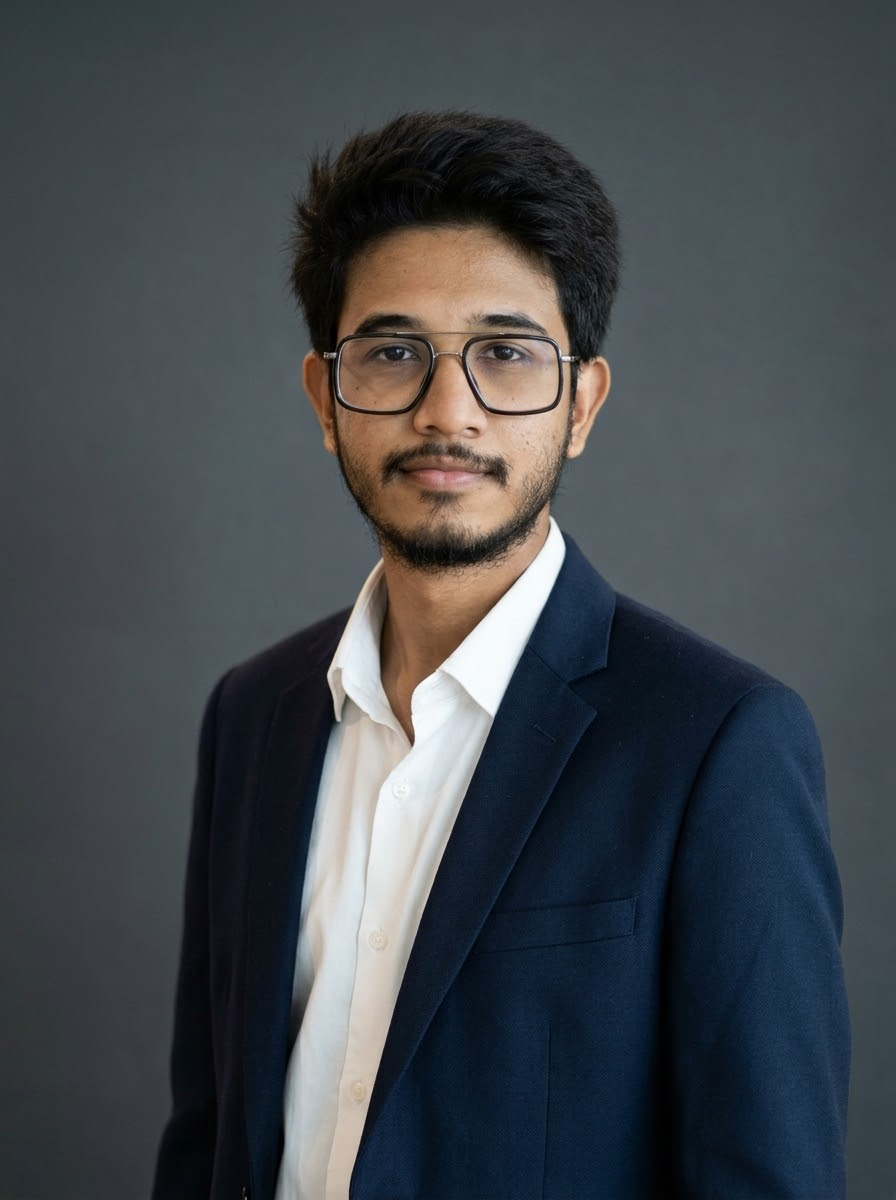
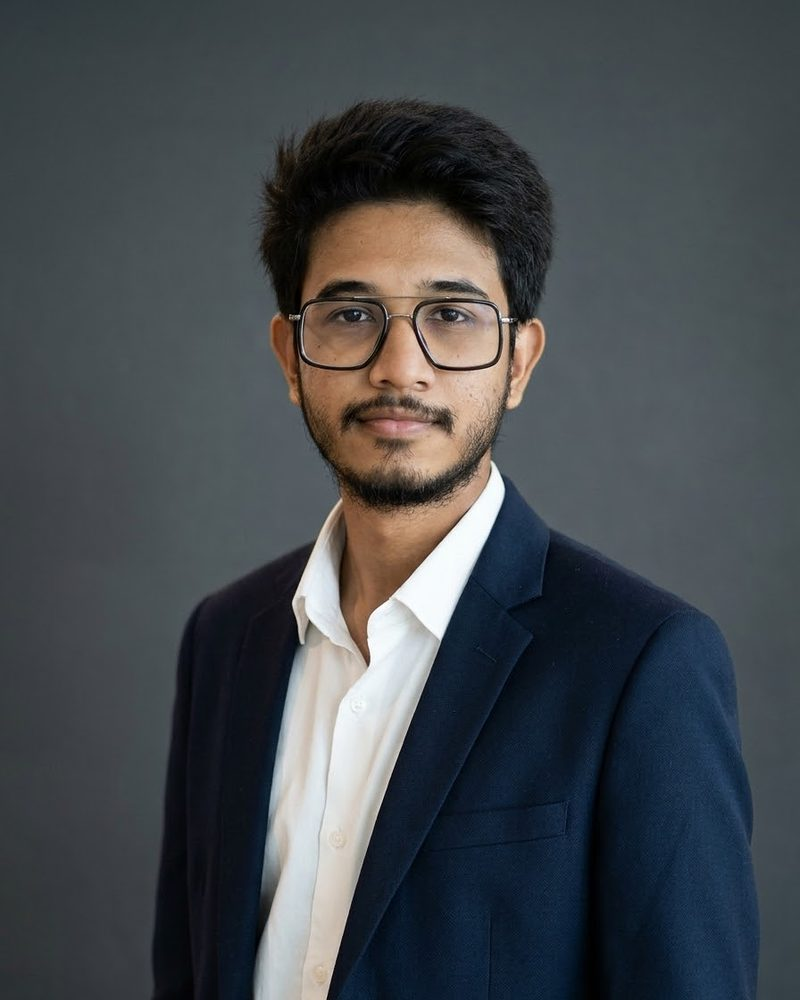
update

diff --git a/index.html b/index.html
@@ -107,7 +107,7 @@
                         </div>
                     </div>
                     <div class="hero-photo">
-                        <img src="Shams.jpg" alt="Portrait of Shams Kabir in a navy blazer and white shirt" width="800" height="1000" decoding="async" fetchpriority="high">
+                        <img src="Shams.jpg" srcset="Shams-400.jpg 400w, Shams.jpg 800w" sizes="(max-width: 859px) 160px, 30vw" alt="Portrait of Shams Kabir in a navy blazer and white shirt" width="800" height="1000" decoding="async" fetchpriority="high">
                     </div>
                 </div>
             </div>
@@ -131,7 +131,7 @@
                 <h2 class="sec-title">About me</h2>
                 <div class="about-top">
                     <figure class="trophy">
-                        <img src="achievement.jpg" alt="Gold trophy engraved with 4th rank from the DIU CodeTrap Programming Contest, Spring 2025" width="800" height="1091" loading="lazy" decoding="async">
+                        <img src="achievement.jpg" srcset="achievement-480.jpg 480w, achievement.jpg 960w" sizes="(max-width: 859px) 160px, 224px" alt="Gold trophy engraved with 4th rank from the DIU CodeTrap Programming Contest, Spring 2025" width="960" height="1310" loading="lazy" decoding="async">
                         <figcaption>
                             <strong>Proudest moment</strong>
                             4th place, DIU CodeTrap Spring 2025.

diff --git a/style.css b/style.css
@@ -242,12 +242,12 @@ nav {
     display: block;
     width: 100%;
     height: auto;
-    aspect-ratio: 800 / 1091;
+    aspect-ratio: 960 / 1310;
     object-fit: cover;
     background: var(--bar);
     border: var(--rule) solid var(--black);
 }
-.trophy figcaption { margin-top: 0.6rem; padding-top: 0.6rem; border-top: var(--rule) solid var(--black); font-size: 0.875rem; line-height: 1.35; }
+.trophy figcaption { margin-top: 0.6rem; font-size: 0.875rem; line-height: 1.35; }
 .trophy figcaption strong { display: block; font-size: 0.9375rem; font-weight: 700; }
 
 .about-facts { display: grid; gap: 0 var(--col-gap); }
@@ -265,7 +265,7 @@ nav {
 @media (max-width: 859px) {
     .about-top { display: flow-root; }
     .trophy { float: right; width: clamp(7rem, 30vw, 10rem); margin: 0.4rem 0 0.9rem 1.1rem; }
-    .trophy figcaption { font-size: 0.6875rem; line-height: 1.25; margin-top: 0.4rem; padding-top: 0.4rem; }
+    .trophy figcaption { font-size: 0.6875rem; line-height: 1.25; margin-top: 0.4rem; }
     .trophy figcaption strong { font-size: 0.8125rem; }
 }
 

diff --git a/AGENTS.md b/AGENTS.md
@@ -11,8 +11,8 @@ Static single-page personal portfolio for Shams Kabir (`https://shams.swe.bd/`),
 ├── index.html       # Semantic single-page markup, SEO/OG tags, inline SVGs, and section shells
 ├── style.css        # Swiss Style tokens, 12-column grid, sticky stacking, and animations
 ├── script.js        # Google Sheets CSV parser/cache, sticky height observer, anchor scroll, UI controls
-├── Shams.jpg        # Hero portrait (800x1000, 4:5 crop) in .hero-photo
-├── achievement.jpg  # DIU CodeTrap Spring 2025 4th-place trophy photo (800x1091) in #detailed-about
+├── Shams.jpg        # Hero portrait (800x1000, 4:5 crop) in .hero-photo; Shams-400.jpg is the 400px srcset variant
+├── achievement.jpg  # DIU CodeTrap Spring 2025 4th-place trophy photo (960x1310, cropped to the trophy) in #detailed-about; achievement-480.jpg is the 480px srcset variant
 ├── og-image.png     # 1200x630 Open Graph / Twitter social preview card (still the old dark neo-brutalist design; regenerate in Swiss Style)
 └── Shams.jpeg       # Unused portrait asset in root; do not delete unless asked
 ```
@@ -46,6 +46,7 @@ python3 -m http.server 8000
 * **Async layout stability**: Keep `min-height` on `#projects .list` (`22rem`) and `#skills .skills` (`18rem`) so sticky sections do not jump when CSV rows load.
 * **Hero**: The animated background grid and the `.hero.is-covered` scroll toggle were removed with the neo-brutalist theme; the hero is static apart from the entrance animation. `.hero-photo img` is a 4:5 crop with `object-fit: cover`; keep the 4:5 ratio when swapping the image. On desktop it sits in columns 9–12 and is capped at `56vh` wide so it fits the first screen.
 * **Hero on phones (≤639px)**: the lead text and the portrait sit side by side in a two-column grid; the lead is vertically centred (`align-self: center`) against the portrait. Keep that alignment when editing.
+* **Image sizing**: Photos are pre-resized (Lanczos, light sharpening, quality 82) and served with `srcset`/`sizes`. Never let the browser shrink a large original to a small slot: a glittery or detailed photo (the trophy) turns noisy. When swapping a photo, export it at about 2x its largest display width, plus a half-size variant, and update `width`/`height` and the CSS `aspect-ratio` to match.
 * **Traits strip**: On desktop the items are spaced evenly with absolutely positioned square separators; below 860px `script.js` duplicates the list and CSS loops it as a marquee (swipeable under reduced motion). The strip is outside the sticky stack (`position: relative`) and scrolls over the hero.
 * **About on small screens**: Below 860px the trophy photo floats right and text wraps around it; from 860px it is the second column of `.about-top`. Keep the `figure` before the text in the markup.
 * **Contact fills the screen**: `#contact` has `min-height` of one viewport minus the header so Projects never shows above it; keep it when editing.
